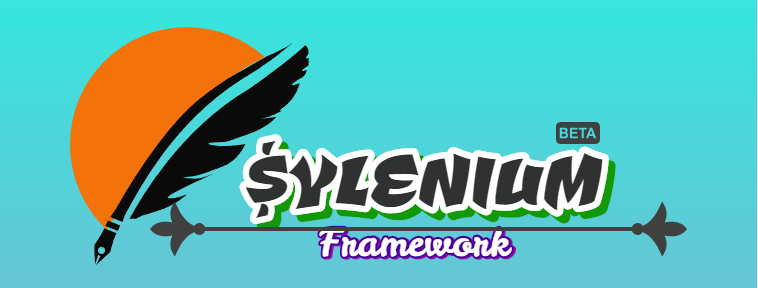
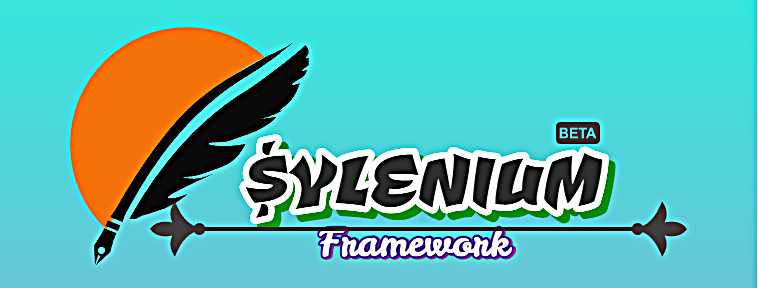
updating image

Changed region(s): [[0.091, 0.0625, 0.9103, 0.9375], [0.971, 0.0, 1.0, 1.0]]

diff --git a/README.md b/README.md
@@ -1,4 +1,4 @@
-![](/.github/.images/sylenium.png|width = 700)
+![](/.github/.images/sylenium.png)
 
 [![Build Status](https://api.travis-ci.org/symonk/sylenium.svg?branch=master)](https://travis-ci.org/symonk/sylenium)
 [![MIT License](http://img.shields.io/badge/license-MIT-green.svg)](https://github.com/symonk/selenide-testng-allure2-test-automation-framework/blob/master/LICENSE)
